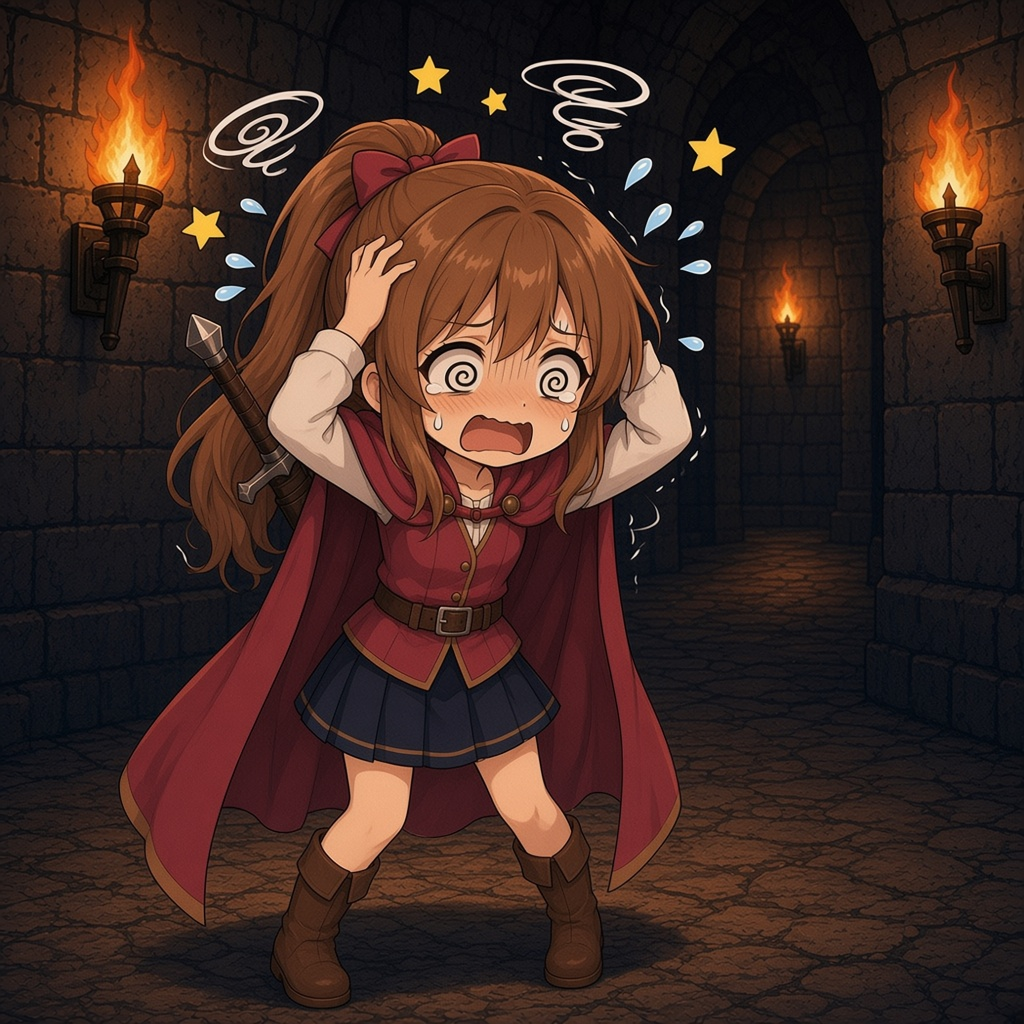
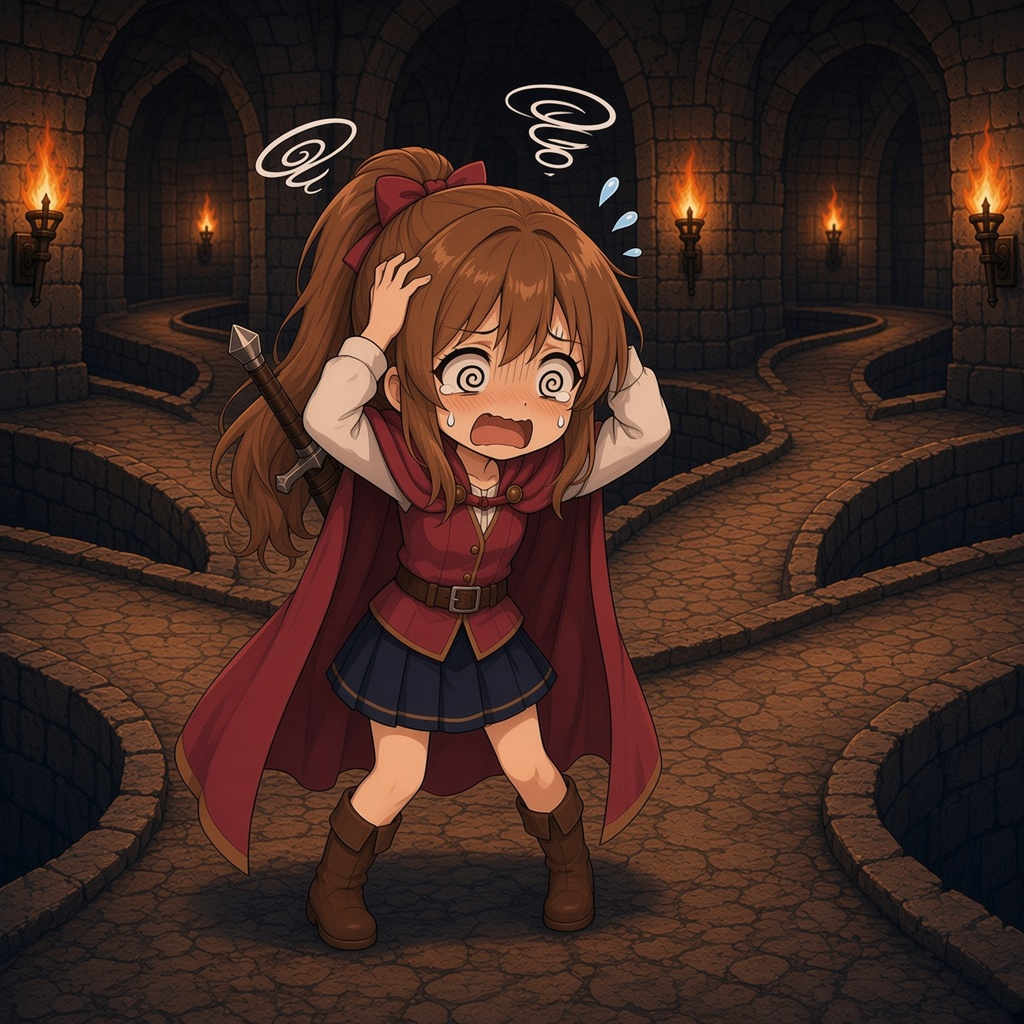
迷子の道を分岐の多い通路にし頭上の星を外す

diff --git a/index.html b/index.html
@@ -8198,7 +8198,7 @@
               ${sheetFig("path-beggar.jpg?v=2", "物乞い")}
               ${sheetFig("path-shop.jpg?v=4", "お店")}
               ${sheetFig("path-rest.jpg?v=1", "休憩")}
-              ${sheetFig("path-lost.jpg?v=1", "迷子")}
+              ${sheetFig("path-lost.jpg?v=2", "迷子")}
               ${sheetFig("path-unknown.jpg?v=4", "遭遇")}
             </div>
             <h3>道のあとのイベント（画像置き場）</h3>
